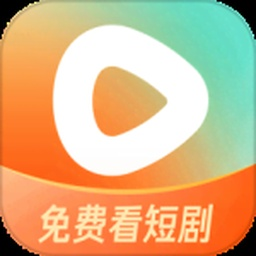
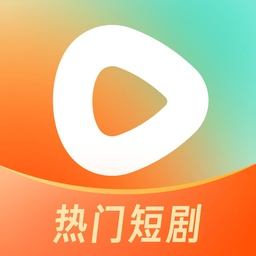
Build 0.1.9 test client with build158 request format, top cache cleanup and embedded config

diff --git a/romfs/adapter.js b/romfs/adapter.js
@@ -203,7 +203,7 @@ const provider = {
     if (!stream || Date.now()-stream.time>=240000) {
       stream=null;
       let web;
-      try { web=await publicWebStream(id); } catch (_) {}
+      if (globalThis.SwitchConfig?.source === 'web') try { web=await publicWebStream(id); } catch (_) {}
       if (web) {
         stream={time:Date.now(),value:web};
       } else {
@@ -237,6 +237,6 @@ const provider = {
 };
 
 
-const active=new Map();globalThis.SwitchAPI={home:provider.home,search:provider.search,detail:provider.detail,open:async(id,q=480,fresh=true)=>{active.delete(id);const s=await provider.stream(id,q,fresh);active.set(id,s);while(active.size>2)active.delete(active.keys().next().value);return {total:s.total,quality:s.quality,codec:s.codec,source:s.source};},read:async(id,a,b)=>{const s=active.get(id);if(!s||a<0||b<a||b-a>=1048576)throw new Error('Range');return Buffer.from(await s.chunk(a,Math.min(b,s.total-1))).toString('hex');},selftest:()=>({protocol:protocolVector(),ctr:nativeCrypto.createDecipheriv('aes-128-ctr',Buffer.from('2b7e151628aed2a6abf7158809cf4f3c','hex'),Buffer.from('f0f1f2f3f4f5f6f7f8f9fafbfcfdfeff','hex')).update(Buffer.from('874d6191b620e3261bef6864990db6ce','hex')).toString('hex'),cbc:nativeCrypto.createDecipheriv('aes-128-cbc',Buffer.from('2b7e151628aed2a6abf7158809cf4f3c','hex'),Buffer.from('000102030405060708090a0b0c0d0e0f','hex')).setAutoPadding(false).update(Buffer.from('7649abac8119b246cee98e9b12e9197d','hex')).toString('hex'),sm3:nativeCrypto.createHash('sm3').update('abc').digest('hex'),md5:nativeCrypto.createHash('md5').update('abc').digest('hex'),sha512:nativeCrypto.createHash('sha512').update('abc').digest('hex')})};
+const active=new Map();globalThis.SwitchAPI={clearCache:()=>{const count=active.size+api.streamCache.size+api.videoInfoCache.size;active.clear();api.streamCache.clear();api.videoInfoCache.clear();return {entries:count};},home:provider.home,search:provider.search,detail:provider.detail,open:async(id,q=480,fresh=true)=>{active.delete(id);const s=await provider.stream(id,q,fresh);active.set(id,s);while(active.size>2)active.delete(active.keys().next().value);return {total:s.total,quality:s.quality,codec:s.codec,source:s.source};},read:async(id,a,b)=>{const s=active.get(id);if(!s||a<0||b<a||b-a>=1048576)throw new Error('Range');return Buffer.from(await s.chunk(a,Math.min(b,s.total-1))).toString('hex');},selftest:()=>({protocol:protocolVector(),ctr:nativeCrypto.createDecipheriv('aes-128-ctr',Buffer.from('2b7e151628aed2a6abf7158809cf4f3c','hex'),Buffer.from('f0f1f2f3f4f5f6f7f8f9fafbfcfdfeff','hex')).update(Buffer.from('874d6191b620e3261bef6864990db6ce','hex')).toString('hex'),cbc:nativeCrypto.createDecipheriv('aes-128-cbc',Buffer.from('2b7e151628aed2a6abf7158809cf4f3c','hex'),Buffer.from('000102030405060708090a0b0c0d0e0f','hex')).setAutoPadding(false).update(Buffer.from('7649abac8119b246cee98e9b12e9197d','hex')).toString('hex'),sm3:nativeCrypto.createHash('sm3').update('abc').digest('hex'),md5:nativeCrypto.createHash('md5').update('abc').digest('hex'),sha512:nativeCrypto.createHash('sha512').update('abc').digest('hex')})};
 
 globalThis.protocolVector=()=>{const d=Date.now,r=Math.random;Date.now=()=>1791875000123;Math.random=()=>0.123456789;try{return nativeCrypto.createHash('md5').update(JSON.stringify(signedVideoRequest(JSON.stringify({mixed_video_id_map:{'1004':['1234567890123456789']}})).headers)).digest('hex');}finally{Date.now=d;Math.random=r;}};

diff --git a/native/main.cpp b/native/main.cpp
@@ -1,5 +1,6 @@
 // SPDX-License-Identifier: GPL-3.0-only
 #include "backend.hpp"
+#include "app_config.hpp"
 #include "poster.hpp"
 #include "workers.hpp"
 #include "playback_policy.hpp"
@@ -155,7 +156,7 @@ public:
     registerAction("后退10秒",brls::BUTTON_LEFT,[this](brls::View*){if(menuVisible)return false;seek(-10);return true;});registerAction("前进10秒",brls::BUTTON_RIGHT,[this](brls::View*){if(menuVisible)return false;seek(10);return true;});
     registerAction("下一集",brls::BUTTON_RB,[this](brls::View*){startEpisode(index+1);return true;});registerAction("上一集",brls::BUTTON_LB,[this](brls::View*){startEpisode(index-1);return true;});registerAction("倍速",brls::BUTTON_Y,[this](brls::View*){cycleSpeed();return true;});
     mpv=mpv_create();if(!mpv){failed=true;status="播放器初始化失败";return;}
-    mpv_set_option_string(mpv,"config","no");mpv_set_option_string(mpv,"terminal","no");mpv_set_option_string(mpv,"vo","libmpv");mpv_set_option_string(mpv,"hwdec","auto");mpv_set_option_string(mpv,"audio-channels","stereo");mpv_set_option_string(mpv,"cache","yes");mpv_set_option_string(mpv,"demuxer-max-bytes","16MiB");mpv_set_option_string(mpv,"opengl-glfinish","yes");mpv_set_option_string(mpv,"vd-lavc-dr","yes");
+    mpv_set_option_string(mpv,"config","no");mpv_set_option_string(mpv,"terminal","no");mpv_set_option_string(mpv,"vo","libmpv");auto config=AppConfig::load();auto hwdec=config.get("hwdec","auto");if(hwdec!="auto"&&hwdec!="no"&&hwdec!="nvdec"&&hwdec!="nvdec-copy")hwdec="auto";mpv_set_option_string(mpv,"hwdec",hwdec.c_str());mpv_set_option_string(mpv,"audio-channels","stereo");mpv_set_option_string(mpv,"cache","yes");mpv_set_option_string(mpv,"demuxer-max-bytes","16MiB");mpv_set_option_string(mpv,"opengl-glfinish","yes");mpv_set_option_string(mpv,"vd-lavc-dr","yes");
     if(mpv_stream_cb_add_ro(mpv,"saf",nullptr,openStream)<0||mpv_initialize(mpv)<0){failed=true;status="播放器初始化失败";return;}
     mpv_opengl_init_params gl{getProc,nullptr};mpv_render_param params[]={{MPV_RENDER_PARAM_API_TYPE,(void*)MPV_RENDER_API_TYPE_OPENGL},{MPV_RENDER_PARAM_OPENGL_INIT_PARAMS,&gl},{MPV_RENDER_PARAM_INVALID,nullptr}};
     if(mpv_render_context_create(&renderer,mpv,params)<0){failed=true;status="视频渲染初始化失败";return;}startEpisode(index);
@@ -206,7 +207,8 @@ class HomeDashboard:public brls::Box{
   std::shared_ptr<std::atomic<bool>> alive=std::make_shared<std::atomic<bool>>(true);brls::Box* content;
   void addCatalog(brls::Box* shelf,const std::string& title,const Json& result,bool ok){trace("home:render_begin");shelf->clearViews();shelf->addView(sectionTitle(title));if(!ok){shelf->addView(cell("暂时无法加载","按 B 返回后重试",[]{}));trace("home:render_error");return;}auto* scroller=new brls::HScrollingFrame();scroller->setHeight(424);auto* row=new brls::Box(brls::Axis::ROW);for(const auto& item:result.value("items",Json::array())){if(row->getChildren().size()>=12)break;if(item.is_object()&&item.contains("id")&&item.contains("title")){auto* tile=posterTile(item);tile->setMarginRight(16);row->addView(tile);}}if(row->getChildren().empty())row->addView(cell("暂时没有内容","请稍后重试",[]{}));scroller->setContentView(row);shelf->addView(scroller);trace("home:render_complete");}
 public:
-  HomeDashboard():brls::Box(brls::Axis::COLUMN){setGrow(1);setPadding(24,40,30,40);auto* hero=new brls::Box(brls::Axis::COLUMN);hero->setPadding(20);hero->setBackgroundColor(nvgRGB(35,38,49));auto* eyebrow=new brls::Label();eyebrow->setText("DISCOVER YOUR NEXT STORY");eyebrow->setFontSize(14);eyebrow->setTextColor(nvgRGB(255,112,100));eyebrow->setHorizontalAlign(brls::HorizontalAlign::LEFT);hero->addView(eyebrow);auto* heading=new brls::Label();heading->setText("好剧上新，随时开看");heading->setFontSize(31);heading->setTextColor(nvgRGB(255,255,255));heading->setHorizontalAlign(brls::HorizontalAlign::LEFT);hero->addView(heading);auto* subtitle=new brls::Label();subtitle->setText("短剧与漫剧精选 · 为你发现下一段故事");subtitle->setTextColor(nvgRGB(183,190,204));subtitle->setHorizontalAlign(brls::HorizontalAlign::LEFT);hero->addView(subtitle);addView(hero);
+  HomeDashboard():brls::Box(brls::Axis::COLUMN){setGrow(1);setPadding(24,40,30,40);auto* cleanup=new brls::Box(brls::Axis::ROW);cleanup->setPaddingBottom(12);cleanup->addView(cell("一键清除视频缓存","清理播放源缓存，保留收藏和观看记录",[this]{auto flag=alive;apiTask([flag]{bool ok=false;try{backend->call("clearCache",Json::array());ok=true;}catch(...){}brls::sync([flag,ok]{if(!*flag)return;message(ok?"视频缓存已清除":"缓存清理失败，请重试");});});}));addView(cleanup);
+    auto* hero=new brls::Box(brls::Axis::COLUMN);hero->setPadding(20);hero->setBackgroundColor(nvgRGB(35,38,49));auto* eyebrow=new brls::Label();eyebrow->setText("发现下一部好剧");eyebrow->setFontSize(14);eyebrow->setTextColor(nvgRGB(255,112,100));eyebrow->setHorizontalAlign(brls::HorizontalAlign::LEFT);hero->addView(eyebrow);auto* heading=new brls::Label();heading->setText("好剧上新，随时开看");heading->setFontSize(31);heading->setTextColor(nvgRGB(255,255,255));heading->setHorizontalAlign(brls::HorizontalAlign::LEFT);hero->addView(heading);auto* subtitle=new brls::Label();subtitle->setText("短剧与漫剧精选 · 为你发现下一段故事");subtitle->setTextColor(nvgRGB(183,190,204));subtitle->setHorizontalAlign(brls::HorizontalAlign::LEFT);hero->addView(subtitle);addView(hero);
     auto* nav=new brls::Box(brls::Axis::ROW);nav->setPaddingTop(12);nav->addView(quickButton("短剧","热播推荐",[]{brls::Application::pushActivity(new brls::Activity(new Page("home",Json::array({1,"short"}))));}));nav->addView(quickButton("漫剧","人气榜单",[]{brls::Application::pushActivity(new brls::Activity(new Page("home",Json::array({1,"comic"}))));}));nav->addView(quickButton("搜索","查找剧名",openSearch));nav->addView(quickButton("收藏","我的片单",[]{openLibrary(true);}));nav->addView(quickButton("最近观看","接着看",[]{openLibrary(false);}));addView(nav);
     content=new brls::Box(brls::Axis::COLUMN);addView(content);if(!library["history"].empty()){content->addView(sectionTitle("接着看"));auto* recent=new brls::Box(brls::Axis::COLUMN);const size_t count=std::min<size_t>(3,library["history"].size());for(size_t i=0;i<count;i++){const auto series=library["history"][i].value("series",Json::object());recent->addView(posterCell(series,[series]{showDetail(series);}));}content->addView(recent);}
     auto flag=alive;for(const auto& category: {std::string("short"),std::string("comic")}){auto* shelf=new brls::Box(brls::Axis::COLUMN);const std::string heading=category=="short"?"热播短剧":"人气漫剧";shelf->addView(sectionTitle(heading));auto* loading=new brls::Label();loading->setText("正在加载海报与剧集…");shelf->addView(loading);content->addView(shelf);apiTask([this,flag,shelf,category,heading]{if(!*flag)return;Json result;bool ok=false;try{result=backend->call("home",Json::array({1,category}));ok=true;}catch(...){trace("home:"+category+":error");}brls::sync([this,flag,shelf,heading,ok,result=std::move(result)]{if(!*flag)return;addCatalog(shelf,heading,result,ok);});});}trace("startup:home_ready");}

diff --git a/native/backend.cpp b/native/backend.cpp
@@ -1,5 +1,6 @@
 // SPDX-License-Identifier: GPL-3.0-only
 #include "backend.hpp"
+#include "app_config.hpp"
 #include "workers.hpp"
 #include <curl/curl.h>
 #include <mbedtls/md5.h>
@@ -63,6 +64,7 @@ void Backend::evaluate(const std::string& script,const char* name){JSValue value
 Backend::Backend(){
   runtime=JS_NewRuntime();if(!runtime)throw std::runtime_error("Runtime init");JS_SetMemoryLimit(runtime,256*1024*1024);JS_SetMaxStackSize(runtime,256*1024);context=JS_NewContext(runtime);if(!context)throw std::runtime_error("Context init");
   JSValue global=JS_GetGlobalObject(context);JS_SetPropertyStr(context,global,"__hash",JS_NewCFunction(context,hashFn,"__hash",2));JS_SetPropertyStr(context,global,"__aes",JS_NewCFunction(context,aesFn,"__aes",4));JS_SetPropertyStr(context,global,"__http",JS_NewCFunction(context,httpFn,"__http",4));JS_FreeValue(context,global);
+  auto config=AppConfig::load();const auto source=config.get("source","app158");evaluate("globalThis.SwitchConfig={source:"+Json(source=="web"?"web":"app158").dump()+"};","config");
   for(const char* file:{"deps.js","prelude.js","hongguo.cjs","adapter.js"}){std::ifstream in(std::string("romfs:/")+file);if(!in)throw std::runtime_error("Backend resource missing");std::string script((std::istreambuf_iterator<char>(in)),{});evaluate(script,file);}
 }
 Backend::~Backend(){if(context)JS_FreeContext(context);if(runtime)JS_FreeRuntime(runtime);}
@@ -74,7 +76,7 @@ Json Backend::call(const std::string& function,const Json& args){
     return result.get();
   }
   std::lock_guard<std::mutex> guard(lock);trace("api:"+function+":begin");JS_UpdateStackTop(runtime);
-  if(function!="home"&&function!="search"&&function!="detail"&&function!="open"&&function!="read"&&function!="selftest")throw std::runtime_error("Invalid method");
+  if(function!="home"&&function!="search"&&function!="detail"&&function!="open"&&function!="read"&&function!="selftest"&&function!="clearCache")throw std::runtime_error("Invalid method");
   evaluate("globalThis.__done=false;globalThis.__answer='';Promise.resolve(SwitchAPI["+Json(function).dump()+"](..."+args.dump()+")).then(v=>{globalThis.__answer=JSON.stringify({ok:true,value:v});globalThis.__done=true;},e=>{globalThis.__answer=JSON.stringify({ok:false,message:String(e&&e.message||'接口处理失败').replace(/https?:\\/\\/[^ ]+/g,'[地址]').slice(0,180)});globalThis.__done=true;});","rpc");
   JSContext* job=nullptr;const auto deadline=std::chrono::steady_clock::now()+std::chrono::seconds(120);
   while(true){JSValue global=JS_GetGlobalObject(context);JSValue done=JS_GetPropertyStr(context,global,"__done");bool complete=JS_ToBool(context,done);JS_FreeValue(context,done);if(complete){JSValue answer=JS_GetPropertyStr(context,global,"__answer");std::string raw=text(context,answer);JS_FreeValue(context,answer);JS_FreeValue(context,global);Json result=Json::parse(raw);if(!result.value("ok",false))throw std::runtime_error(result.value("message",std::string("内容源或网络暂不可用")));trace("api:"+function+":complete");return result["value"];}JS_FreeValue(context,global);

diff --git a/native/app_config.hpp b/native/app_config.hpp
@@ -1,0 +1,11 @@
+// SPDX-License-Identifier: GPL-3.0-only
+#pragma once
+#include <fstream>
+#include <map>
+#include <string>
+struct AppConfig {
+  std::map<std::string,std::string> values;
+  std::string get(const std::string& key,const std::string& fallback)const{auto i=values.find(key);return i==values.end()?fallback:i->second;}
+  void read(const std::string& file){std::ifstream in(file);std::string line;while(std::getline(in,line)){auto comment=line.find('#');if(comment!=std::string::npos)line.resize(comment);auto equals=line.find('=');if(equals==std::string::npos)continue;auto trim=[](std::string s){auto a=s.find_first_not_of(" \t\r");if(a==std::string::npos)return std::string();auto b=s.find_last_not_of(" \t\r");return s.substr(a,b-a+1);};auto key=trim(line.substr(0,equals)),value=trim(line.substr(equals+1));if(!key.empty()&&!value.empty())values[key]=value;}}
+  static AppConfig load(){AppConfig c;c.read("romfs:/hongguo.cfg");c.read("sdmc:/switch/hongguo.cfg");return c;}
+};

diff --git a/scripts/verify-input.py b/scripts/verify-input.py
@@ -20,10 +20,10 @@ assert len(nacp) == 0x4000
 name = nacp[:0x200].split(b'\0', 1)[0].decode('utf-8')
 assert name == '红果短剧', name
 assert struct.unpack_from('<Q', nacp, 0x3038)[0] == 0x0100F00D53414600
-assert nacp[0x3060:0x3070].split(b'\0', 1)[0] == b'0.1.8'
+assert nacp[0x3060:0x3070].split(b'\0', 1)[0] == b'0.1.9'
 assert (root / 'control/icon_AmericanEnglish.dat').read_bytes()[:2] == b'\xff\xd8'
 for file in root.rglob('*'):
     if file.is_file():
         assert file.suffix.lower() != '.keys' and file.name not in ('keys.dat', 'keys.txt', 'prod.keys', 'title.keys'), file.name
         assert not file.is_symlink()
-print(json.dumps({'name': name, 'titleId': '0100F00D53414600', 'version': '0.1.8', 'structuralChecksPassed': True, 'hardwareTested': False}, ensure_ascii=False))
+print(json.dumps({'name': name, 'titleId': '0100F00D53414600', 'version': '0.1.9', 'structuralChecksPassed': True, 'hardwareTested': False}, ensure_ascii=False))

diff --git a/tests/app_config.cpp b/tests/app_config.cpp
@@ -1,0 +1,4 @@
+#include "app_config.hpp"
+#include <cassert>
+#include <cstdio>
+int main(){const char* p="/tmp/hongguo-config-test.cfg";{std::ofstream f(p);f<<"source=app158\nhwdec=auto\n# ignored\n";}AppConfig c;c.read(p);assert(c.get("source","")=="app158");{std::ofstream f(p);f<<" hwdec = no # comment\ninvalid\nsource=\n";}c.read(p);assert(c.get("hwdec","")=="no");assert(c.get("source","")=="app158");assert(c.get("missing","fallback")=="fallback");std::remove(p);}

diff --git a/README.md b/README.md
@@ -1,42 +1,19 @@
-# 红果短剧Switch客户端
+# 红果短剧 Switch 0.1.9 测试版
 
-Switch 第一代 / Lite / OLED 的原生自制应用。当前正式版为 **0.1.8**，用户已确认可以正式发布。
-仓库名称为 `hongguo-switch`，软件内名称为「红果短剧」。无需电脑端服务，使用 libnx、Borealis、QuickJS 和 libmpv。
+此版本以原仓库客户端架构为基础，适配用户提供的 build158 单视频请求形式，未修改 build158 NSP 本体。视频播放成功率及 Switch 实机操作等待测试，不宣称已完整复刻 build158 的网络签名或播放链路。
 
-正式版沿用已交付的 0.1.8 安装包，程序内容未重新编译或修改。支持封面宫格、横向选集、官网公开视频播放、控制菜单与可拖动进度条、长按临时 2 倍速、自动连播、失败重试和视频方向切换。操作提示保持原字号并置于屏幕底边。
-内容源不返回可用地址的分集仍可能无法播放。开发者未进行 Switch 实机测试；本次正式发布基于用户的发布确认及已有构建、安装包校验结果。
+- 默认优先使用 `/novel/player/video_model/v1/` 与 `video_id` 请求体，包含 build158 的 `disable_video_relate_book` 字段；支持直接返回的 `video_model`。
+- 首页最顶部“一键清除视频缓存”清理播放源、视频信息和后台活动流的内存缓存，保留收藏、观看历史及目录缓存；本架构不在 SD 卡保存视频下载缓存。
+- 播放菜单可在 0° 与 90° 间旋转视频，保持比例。
+- 点击或拖动进度条跳转；长按播放画面 400ms 临时 2 倍速，松开、取消、暂停或切集恢复原倍速。
+- 名称为“红果短剧”，安装图标使用用户提供图片；界面按钮及操作说明为中文。
+- RomFS 内置 `hongguo.cfg`，SD 卡 `switch/hongguo.cfg` 可按项目覆盖。支持 `hwdec=auto/no/nvdec/nvdec-copy` 与 `source=app158/web`。
 
-## 下载
+**本架构使用原仓库的 GPU OpenGL 渲染。build158 专用的 `renderer=deko3d` 不兼容，不能直接套用其渲染实现。原 158 的完整网络签名和响应处理尚未全部恢复，单视频接口适配需实机验证。**
 
-[NSP 直接下载](https://github.com/zqzhuhai-commits/hongguo-switch/releases/download/v0.1.8/Hongguo-Switch-0.1.8.nsp)
-· [发布说明及校验文件](https://github.com/zqzhuhai-commits/hongguo-switch/releases/tag/v0.1.8)
+Title ID 沿用仓库 `0100F00D53414600`，与上传的 build158 不同。源码许可证与来源声明沿用 LICENSE、NOTICE.md 和 licenses/。
 
-软件内名称为「红果短剧」。NSP 的 Title ID 为 `0100F00D53414600`。
-验证记录见 `docs/Switch-verification.json`。NSP 在本地打包，密钥未上传；GitHub 工作流仅发布完成的安装包。
-
-## 功能与操作
-
-- 短剧、漫剧及搜索结果按每行 6 张封面宫格排列；触屏点封面或剧名直接进入分集页，手柄 A 确认。
-- 剧名多行显示，X 查看完整剧名；播放器使用带中文扩展字形回退的系统字体。
-- 分集按钮每行 10 集横向排列，上下方向键保持列位置。
-- 首页加入精选区、接着看、热播短剧与人气漫剧横向海报栏，入口集中在首页上方。
-- 漫剧优先读取官网榜单，兼容网页延迟数据与直接渲染列表。
-- 点播放画面或按 X 呼出控制菜单：播放/暂停、跳转、选集、倍速、重试及横竖切换。
-- 自动连播默认开启，菜单可关闭并保存设置；最后一集结束时停止。
-- 横竖切换在 0° / 90° 间旋转视频，保留视频比例。
-- 本机收藏和最近观看；选择同一分集时恢复保存的进度。
-- A 确认 / 播放暂停，B 返回，方向键选择；播放时 ← / → 跳转 10 秒。
-- L / R 上一集 / 下一集，Y 切换倍速，X 播放菜单；B 关闭菜单或返回，+ 退出应用。
-
-接口暂不可用、视频资源不兼容和网络错误会明确显示。界面支持手柄和触屏。
-尚未移植定时停止、可视化备份导入和清晰度设置。App 备用入口默认请求 480P；官网入口使用官网公开画质，
-优先使用 AVC / H.264，硬件解码由播放器自动选择。
-
-数据位于 `sdmc:/switch/hongguo-saf/library.json`。本地文件与程序二进制分离。
-
-## 编译
-
-使用 devkitPro 的 devkita64 构建环境及 Switch portlibs：
+## 构建
 
 ```sh
 sh scripts/fetch-deps.sh
@@ -44,41 +21,19 @@ cmake -S . -B build -DPLATFORM_SWITCH=ON -DCMAKE_BUILD_TYPE=Release
 cmake --build build --target package-input -j2
 ```
 
-输出 `.nro` 和 `build/package/`：后者包含独立 NSP 所需的 ExeFS、控制数据和 RomFS。
-NSP 需要在本地使用自有密钥和 hacBrewPack 打包；密钥从不提交到本仓库、公开构建日志或发布包。
-`title.keys` 不参与自制应用构建。
+输出 NRO、ExeFS、NACP 和 RomFS。NSP 使用本地打包工具与本地密钥生成，不上传密钥。
 
 ## 回归检查
 
 ```sh
-g++ -std=c++17 -Inative tests/playback_policy.cpp -o /tmp/playback-policy
-/tmp/playback-policy
+node tests/build158_source.cjs
+node tests/cache_clear.cjs
 node tests/adapter_refresh.cjs
+node tests/media_loading.cjs
+node tests/official_first_episode.cjs
+g++ -std=c++17 -Inative tests/playback_touch.cpp -o /tmp/touch && /tmp/touch
+g++ -std=c++17 -Inative tests/playback_policy.cpp -o /tmp/policy && /tmp/policy
+g++ -std=c++17 -Inative tests/app_config.cpp -o /tmp/config && /tmp/config
 ```
 
-## 来源与许可证
-
-本项目按 GPL-3.0-only 发布。协议代码来自既有 hongguo-saf-mac 项目并保持原始 vendor 文件。
-它的来源声明见 NOTICE.md；Switch 图形集成参考 NX Torrent Player 的 MPV 集成。
-Borealis（Apache-2.0）、QuickJS（MIT）、Buffer（MIT）及 sm-crypto（MIT）保留各自许可证。
-MPV / FFmpeg 和其他 portlibs 的许可证依其实际构建配置提供；构建会固定源代码提交。
-
-### 0.1.5 媒体加载修正
-
-允许明文 MP4 的 moov 位于文件尾或 free/mdat 之后；媒体 Range 校验起点、终点和总长，允许最后一段短于请求长度。分段下载失败先重试同一段一次；APP 资源主地址不可用时尝试接口提供的备用地址和其他兼容清晰度（最多三档）。官网视频严格匹配分集 ID，避免把推荐视频当作本集。测试覆盖上述传输与解析场景；内容源不返回播放地址时仍可能失败。
-
-参考文件 tv.nro 的静态检查记录见 [播放器检查](docs/player-reference.md)。
-
-0.1.5 另修正官网首集的 canonical schema 匹配：首集页面 ID 可以是剧 ID，而分集身份从官网 `/video/public/<分集ID>/...mp4` 验证；首集使用 `/player/<剧ID>`，后续集使用双 ID 路由。官网媒体使用浏览器 User-Agent 和对应播放页 Referer。`tests/official_first_episode.cjs` 专门覆盖用户反馈的《首辅娇娘》第一集。
-
-### 0.1.6 播放交互
-
-时间与进度条随控制菜单显示，进入播放时隐藏，点击画面或按 X 显示，再次点击画面、按 B 或选择“隐藏菜单”后隐藏。触摸任意位置或拖动后松开跳转，拖动中显示目标时间，松开只提交一次跳转；进度条获得焦点后左右键每次前后 5 秒，上键打开菜单。未知时长或播放失败时禁用跳转。长按播放画面 400ms 临时使用 2 倍速，松开、取消、切集、重试、退出或暂停时恢复长按前的实际倍速；拖动进度条和点击菜单按钮不会触发倍速，短点仍开关菜单。
-
-### 0.1.7 进度条显示调整
-
-进度条不再常驻，与控制菜单同时显示或隐藏。隐藏后其原位置可正常点击画面或长按倍速，不会被不可见的进度条占用。
-
-### 0.1.8 操作提示位置
-
-播放操作提示保持原有 16 号字号与颜色，使用底部对齐，放在屏幕下边缘上方 4 像素，不再占用原来距离底部约 100 像素的位置；菜单、进度条和触屏手势维持原有操作方式。
+检查通过仅证明本地逻辑和数据格式处理符合测试样例，不证明内容源在线可用。
